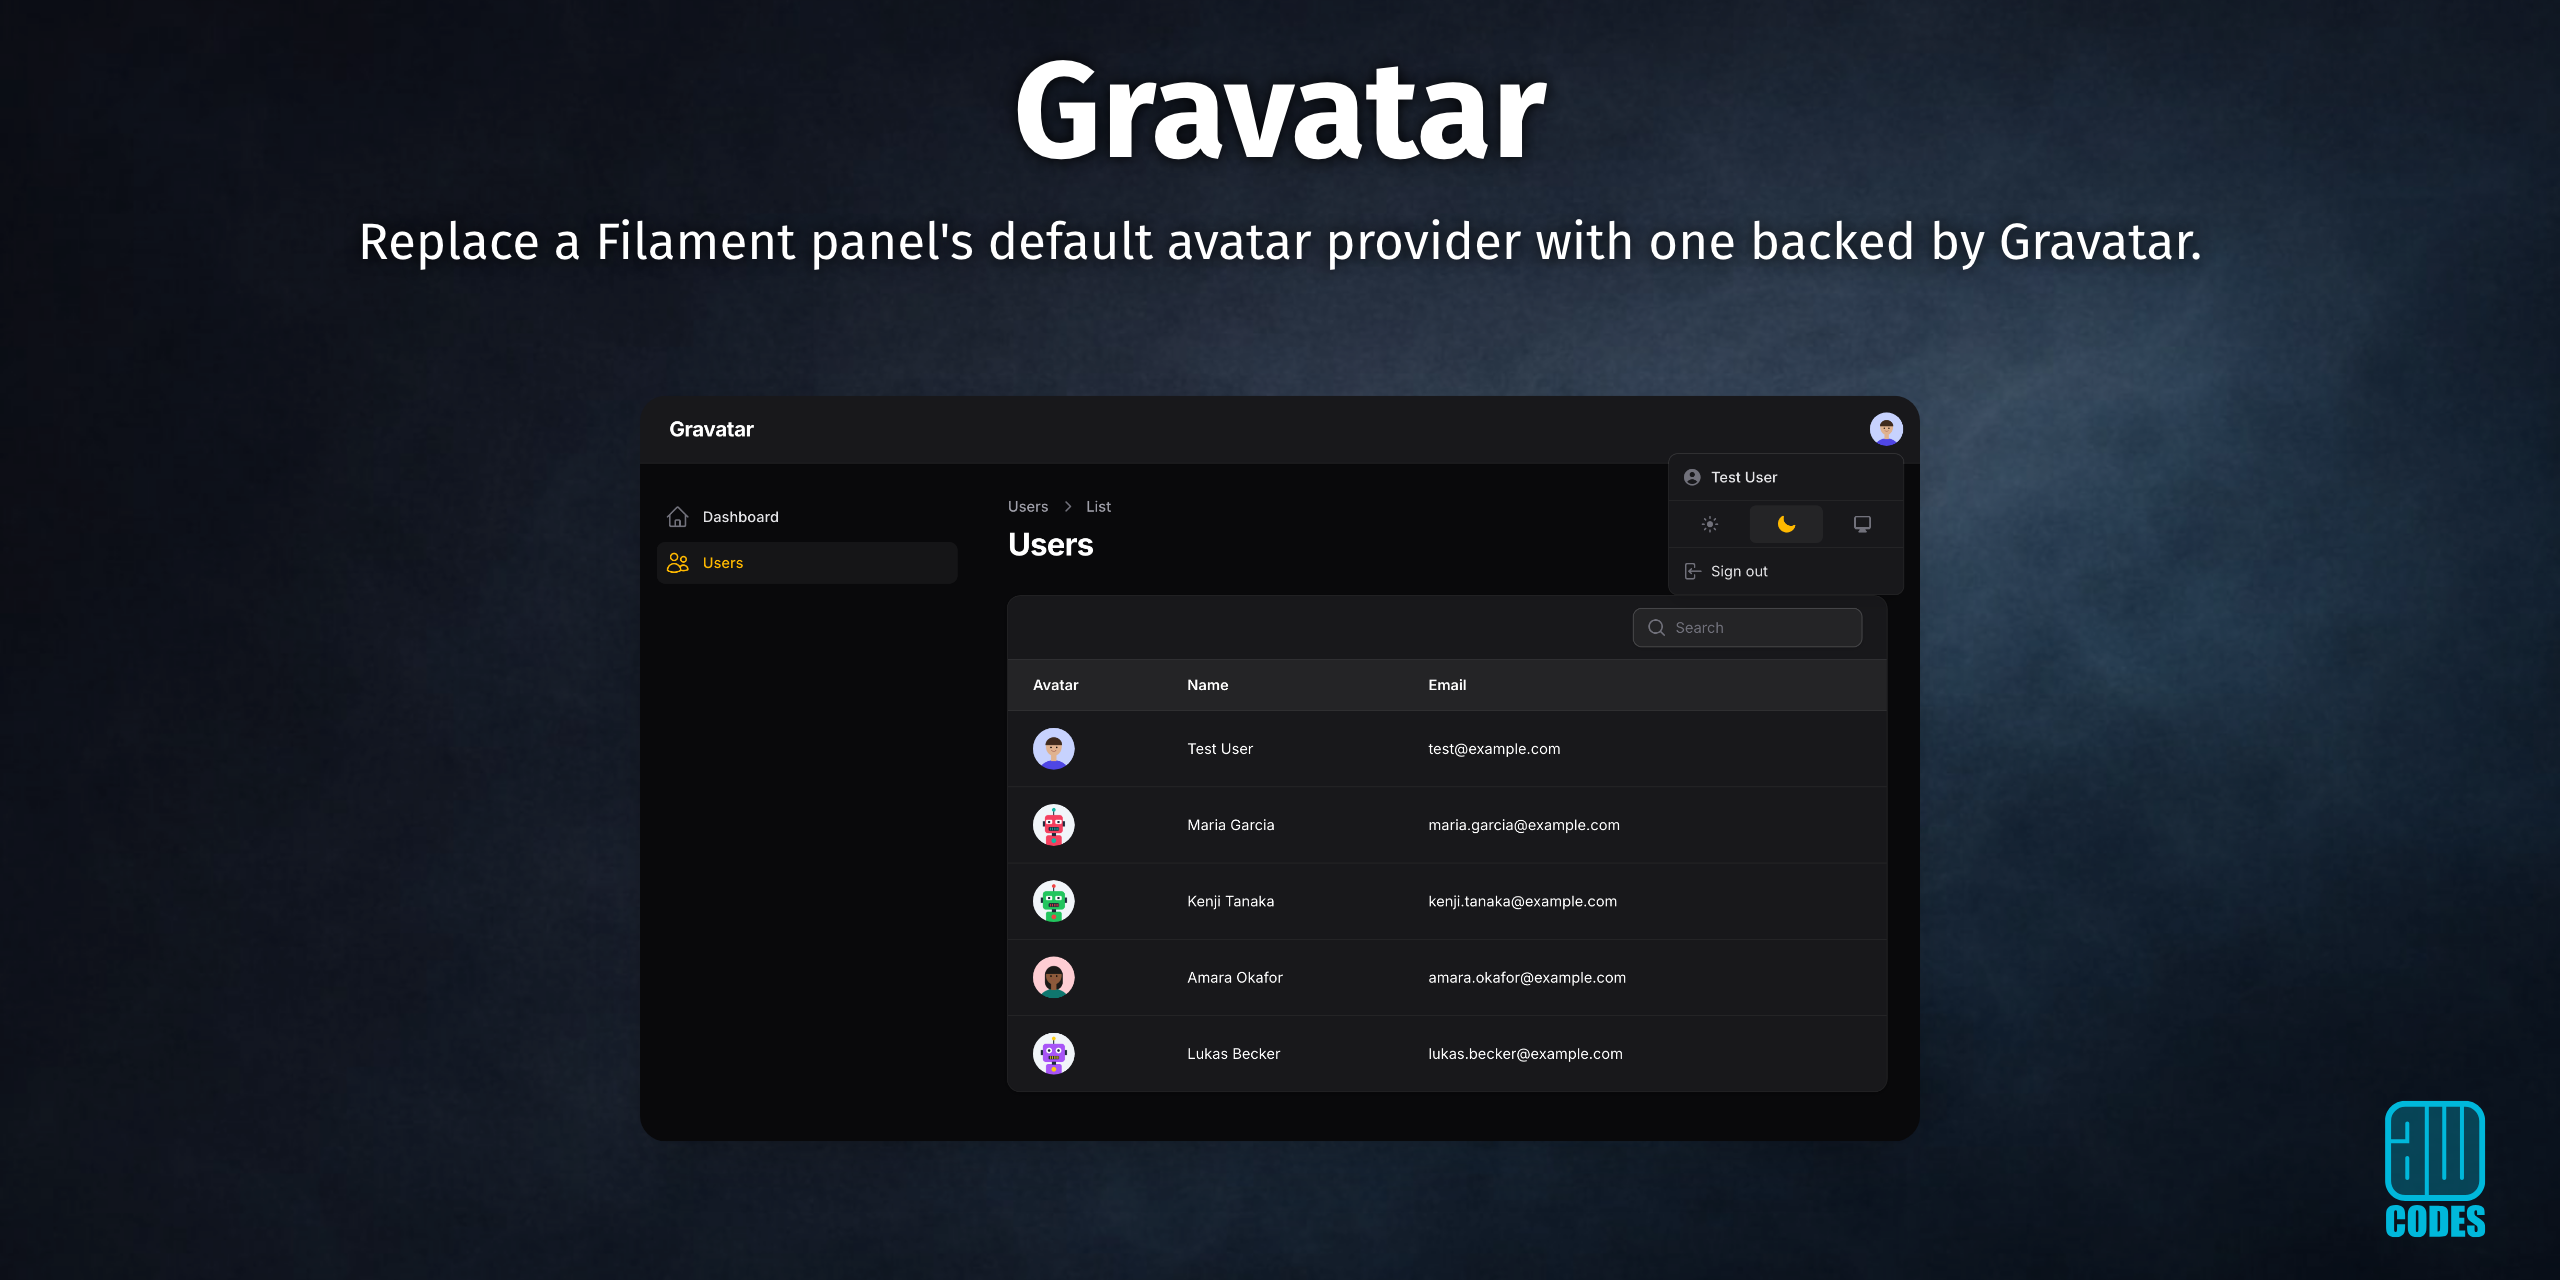
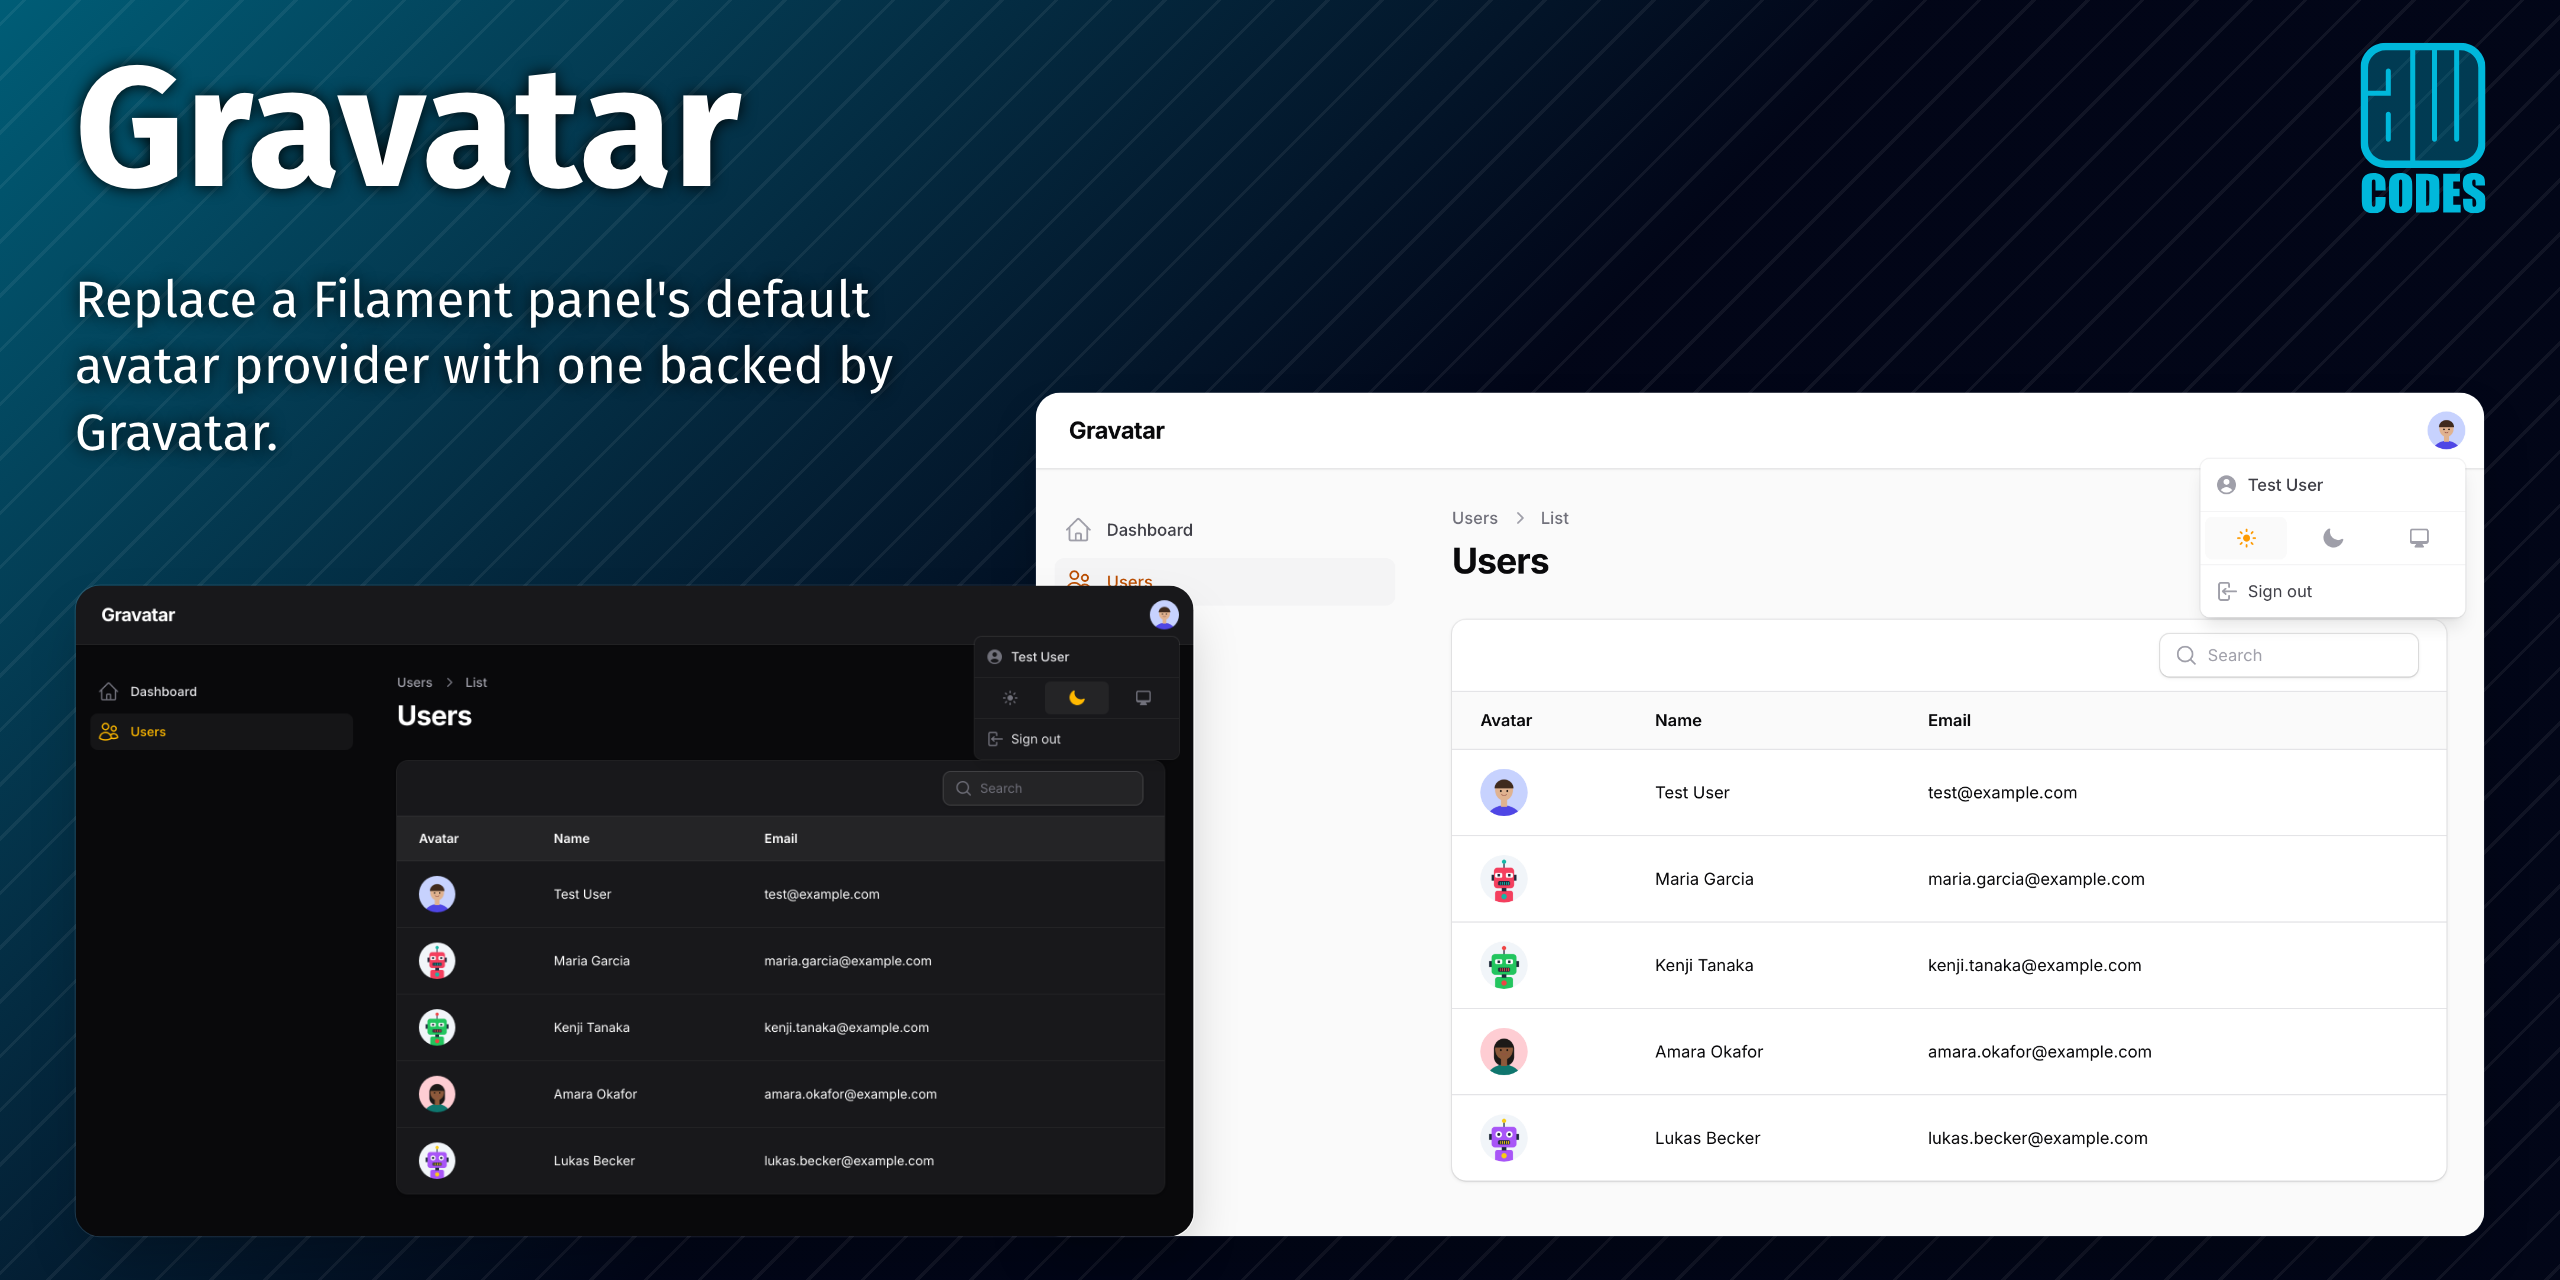
chore: move Focus cards to focus-templates v2.0.0
Pin the card templates to v2.0.0 and switch the social and thumbnail
cards from one-up to the redesigned two-up layouts, showing card-users
in both themes.

diff --git a/focus.php b/focus.php
@@ -31,7 +31,8 @@ $gravatar = function (string $url): string {
 };
 
 // The awcodes card templates frame each screenshot at 1400x816. The users page is captured in that shape at
-// 1225x714, the smallest size that fits the whole table, and the template scales it up.
+// 1225x714, the smallest size that fits the whole table, and the template scales it up. The two-up cards show it
+// twice: the light capture large at the back, and the dark one in front of its lower-left part.
 $card = [1225, 714];
 
 return ScreenshotSuite::make()
@@ -55,19 +56,19 @@ return ScreenshotSuite::make()
             ->click('button[aria-label="User menu"]')
             ->viewport(),
     ])
-    ->cardTemplates('https://github.com/awcodes/focus-templates/tree/v1.1.1/dist')
+    ->cardTemplates('https://github.com/awcodes/focus-templates/tree/v2.0.0/dist')
     ->cards([
         // Open Graph and the GitHub social preview share one 2400x1260 template; GitHub crops 30px top and bottom.
         Card::make('social')
-            ->template('one-up-wide')
+            ->template('two-up-wide')
             ->title('Gravatar')
-            ->screenshots(['card-users'])
+            ->screenshots(['card-users', 'card-users'])
             ->sizes([Size::OpenGraph, Size::GitHubSocial]),
 
         // The Filament plugin directory's 2560x1440 thumbnail.
         Card::make('thumbnail')
-            ->template('one-up')
+            ->template('two-up')
             ->title('Gravatar')
-            ->screenshots(['card-users'])
+            ->screenshots(['card-users', 'card-users'])
             ->sizes([Size::Filament]),
     ]);
